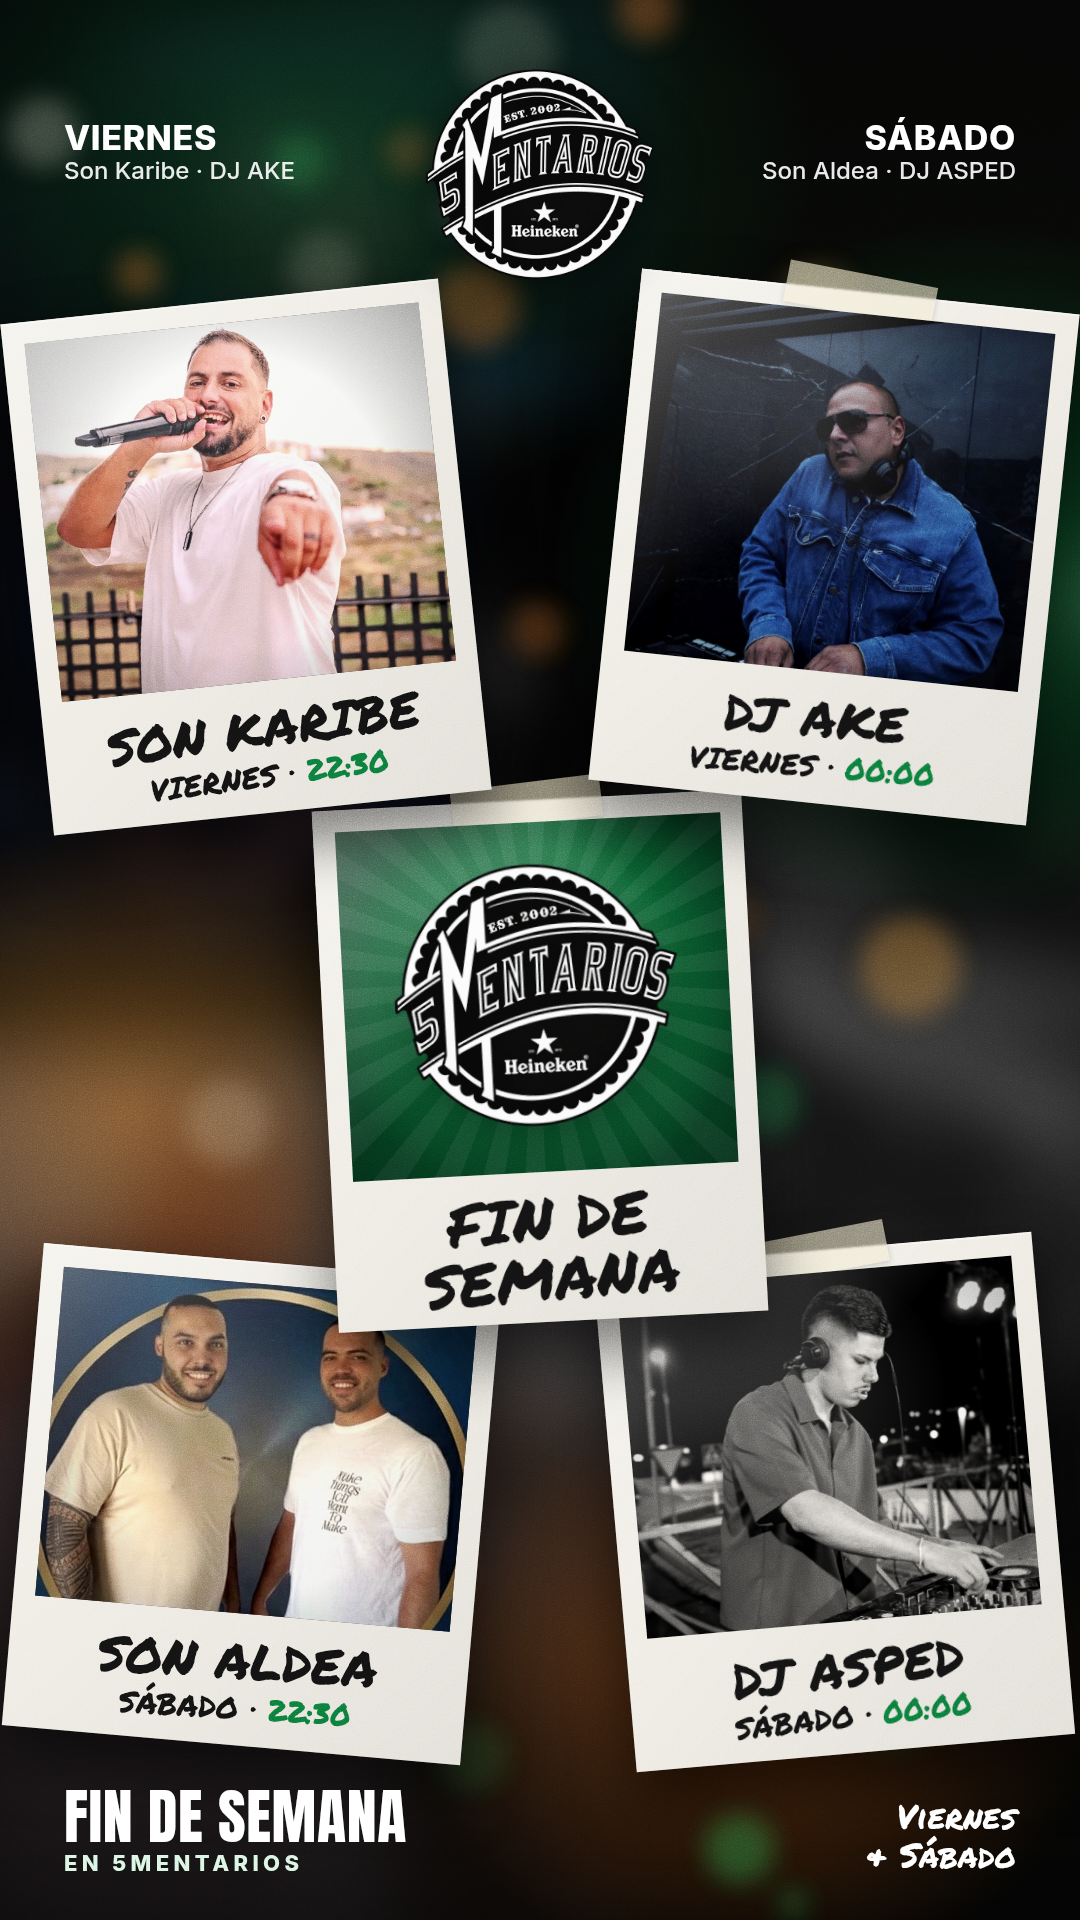
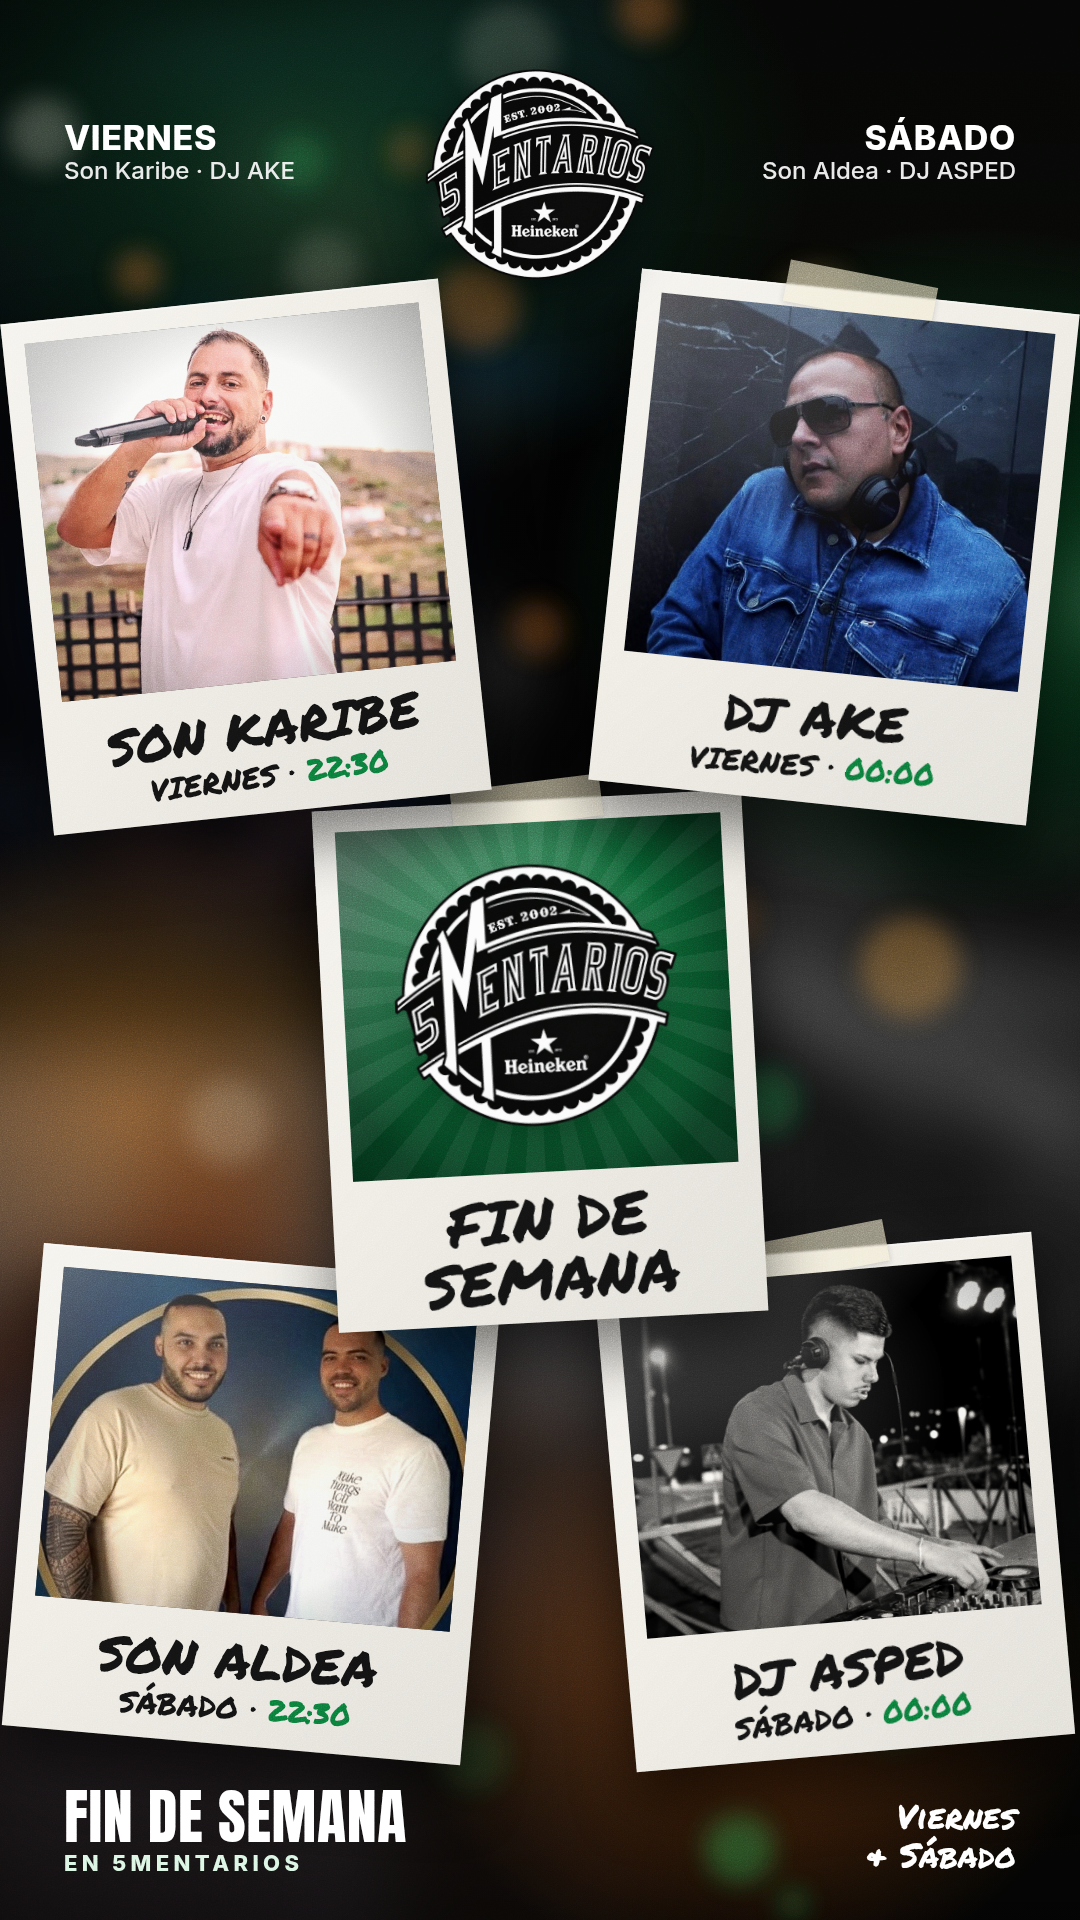
Zoom in and brighten DJ AKE photo in polaroid poster
Claude-Session: https://claude.ai/code/session_01RJzBzF85Mf8EXnmYDeiEGb

Changed region(s): [[0.5806, 0.1562, 0.9778, 0.375]]

diff --git a/posts/2026-09-25-musica-en-directo/5mentarios-polaroid.html b/posts/2026-09-25-musica-en-directo/5mentarios-polaroid.html
@@ -110,7 +110,7 @@
 
   <div class="pol" style="--r:6deg; right: 26px; top: 290px; width: 440px; z-index: 6;">
     <div class="tape" style="--tr: 5deg"></div>
-    <div class="ph" style="height: 360px;"><img src="img/dj-ake.jpg" style="object-position: 50% 30%;" alt="DJ AKE"></div>
+    <div class="ph" style="height: 360px;"><img src="img/dj-ake.jpg" style="object-position: 50% 30%; transform: scale(1.6); transform-origin: 62% 32%; filter: contrast(1.1) saturate(.95) sepia(.1) brightness(1.18);" alt="DJ AKE"></div>
     <div class="cap"><div class="n">DJ AKE</div><div class="t">VIERNES · <em>00:00</em></div></div>
   </div>
 
